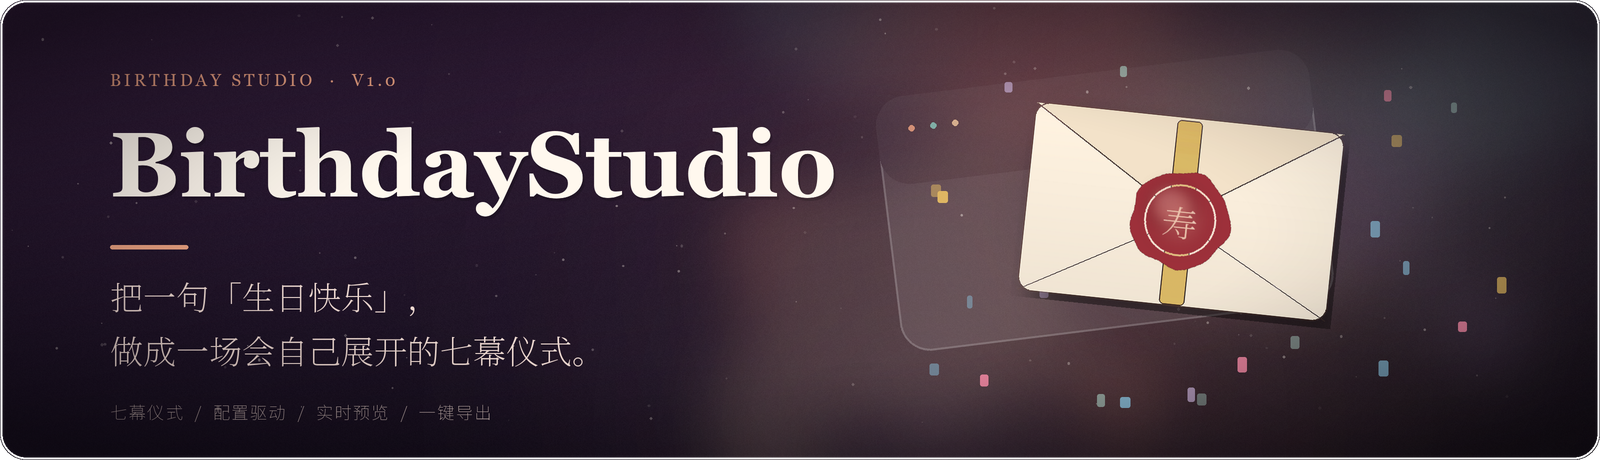
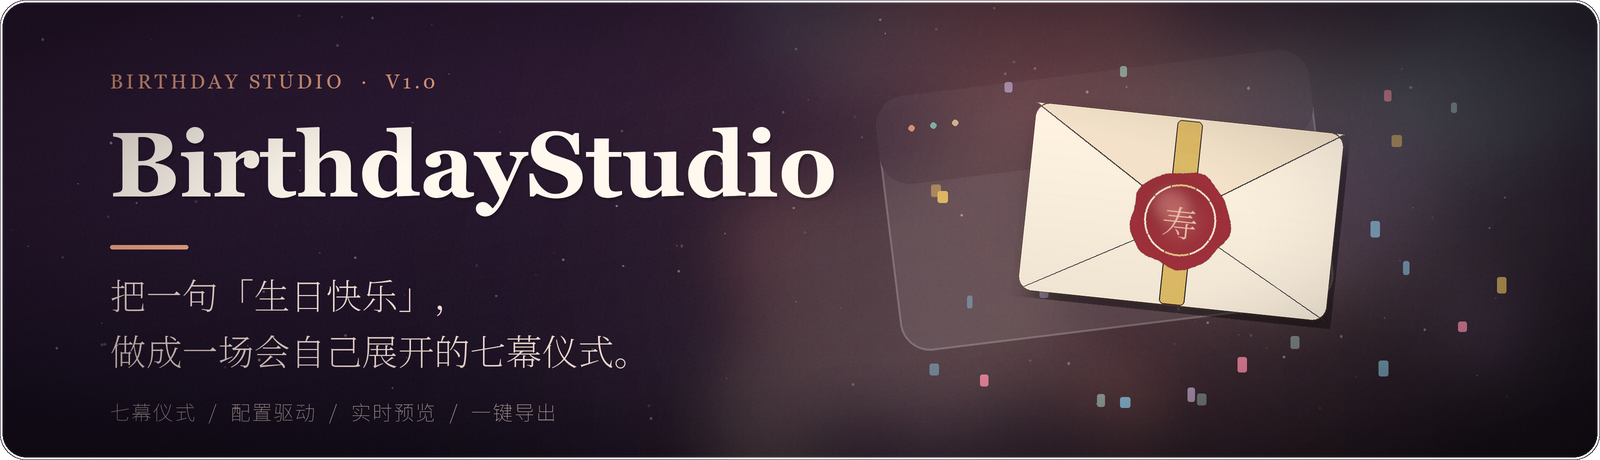
docs: refine README hero typography and badges

diff --git a/scripts/make_readme_assets.py b/scripts/make_readme_assets.py
@@ -187,19 +187,19 @@ def text_layer() -> Image.Image:
             d.text((cx, cy), ch, font=fnt, fill=fill)
             cx += d.textlength(ch, font=fnt) + tracking
 
-    tracked("BIRTHDAY STUDIO  ·  V1.0", (x, 70 * S), font("georgia.ttf", 17 * S), (255, 176, 138, 230), 3.2 * S)
+    tracked("BIRTHDAY STUDIO  ·  V1.0", (x, 70 * S), font("georgia.ttf", 20 * S), (255, 176, 138, 230), 3.2 * S)
     title_font = font("georgiab.ttf", 92 * S)
     d.text((x + 2 * S, 115 * S), "BirthdayStudio", font=title_font, fill=(0, 0, 0, 45))
     d.text((x, 112 * S), "BirthdayStudio", font=title_font, fill=(255, 248, 238, 255))
 
     d.rounded_rectangle([x, 245 * S, x + 78 * S, 249 * S], radius=2 * S, fill=(255, 176, 138, 235))
 
-    serif = font("NotoSerifSC-VF.ttf", 33 * S)
-    d.text((x, 272 * S), "把一句「生日快乐」，", font=serif, fill=(255, 233, 223, 238))
-    d.text((x, 326 * S), "做成一场会自己展开的七幕仪式。", font=serif, fill=(255, 233, 223, 238))
+    serif = font("NotoSerifSC-VF.ttf", 36 * S)
+    d.text((x, 268 * S), "把一句「生日快乐」，", font=serif, fill=(255, 233, 223, 238))
+    d.text((x, 324 * S), "做成一场会自己展开的七幕仪式。", font=serif, fill=(255, 233, 223, 238))
 
-    sans = font("NotoSansSC-VF.ttf", 17 * S)
-    tracked("七幕仪式  /  配置驱动  /  实时预览  /  一键导出", (x, 402 * S), sans, (232, 210, 202, 225), 1.6 * S)
+    sans = font("NotoSansSC-VF.ttf", 20 * S)
+    tracked("七幕仪式  /  配置驱动  /  实时预览  /  一键导出", (x, 400 * S), sans, (232, 210, 202, 225), 1.6 * S)
     return layer
 
 
